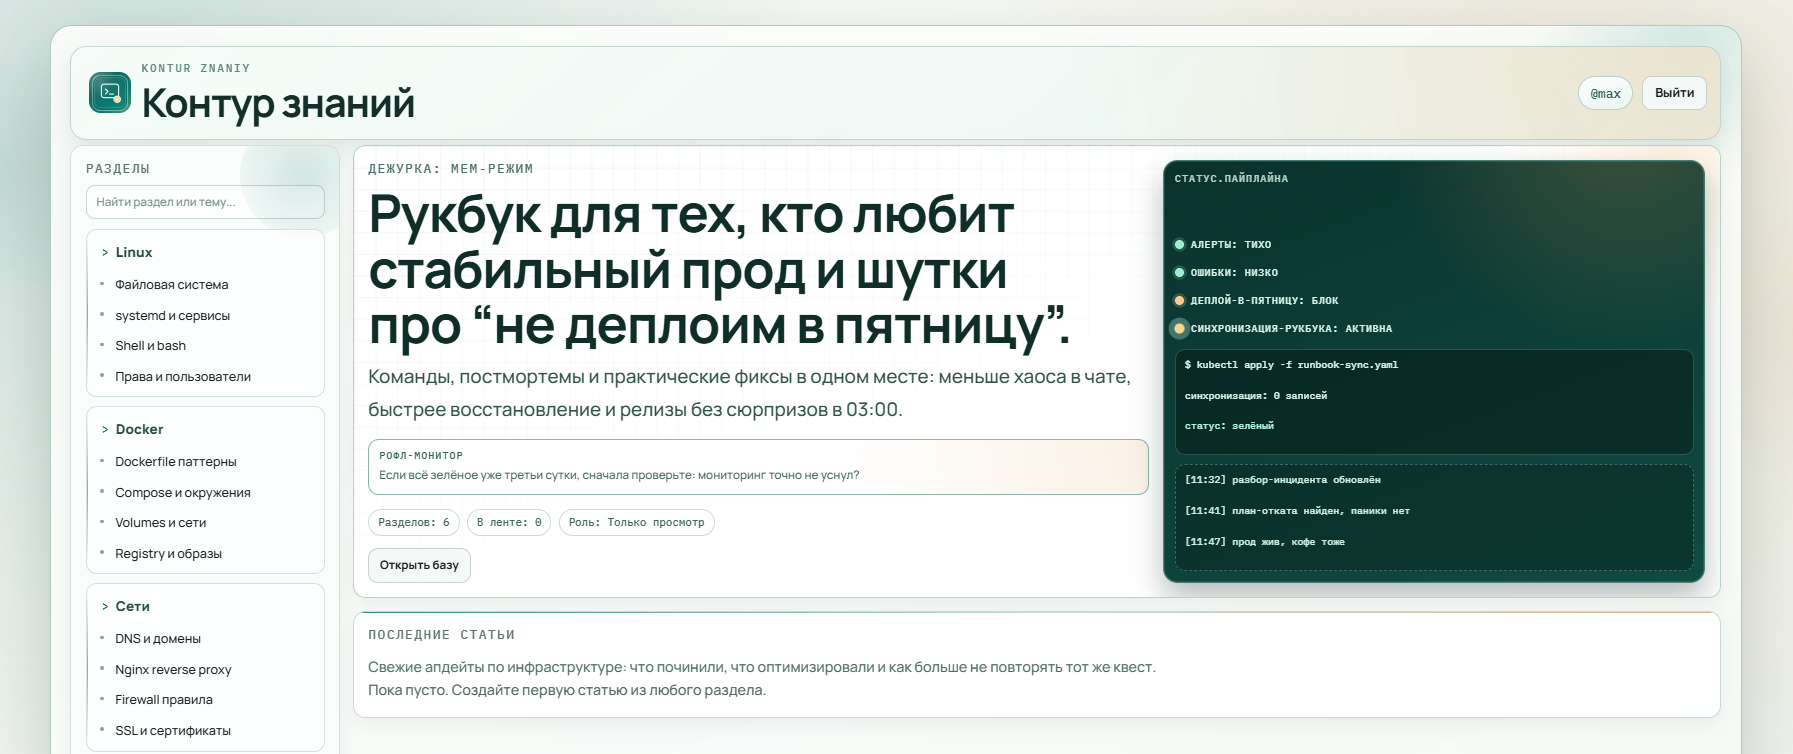
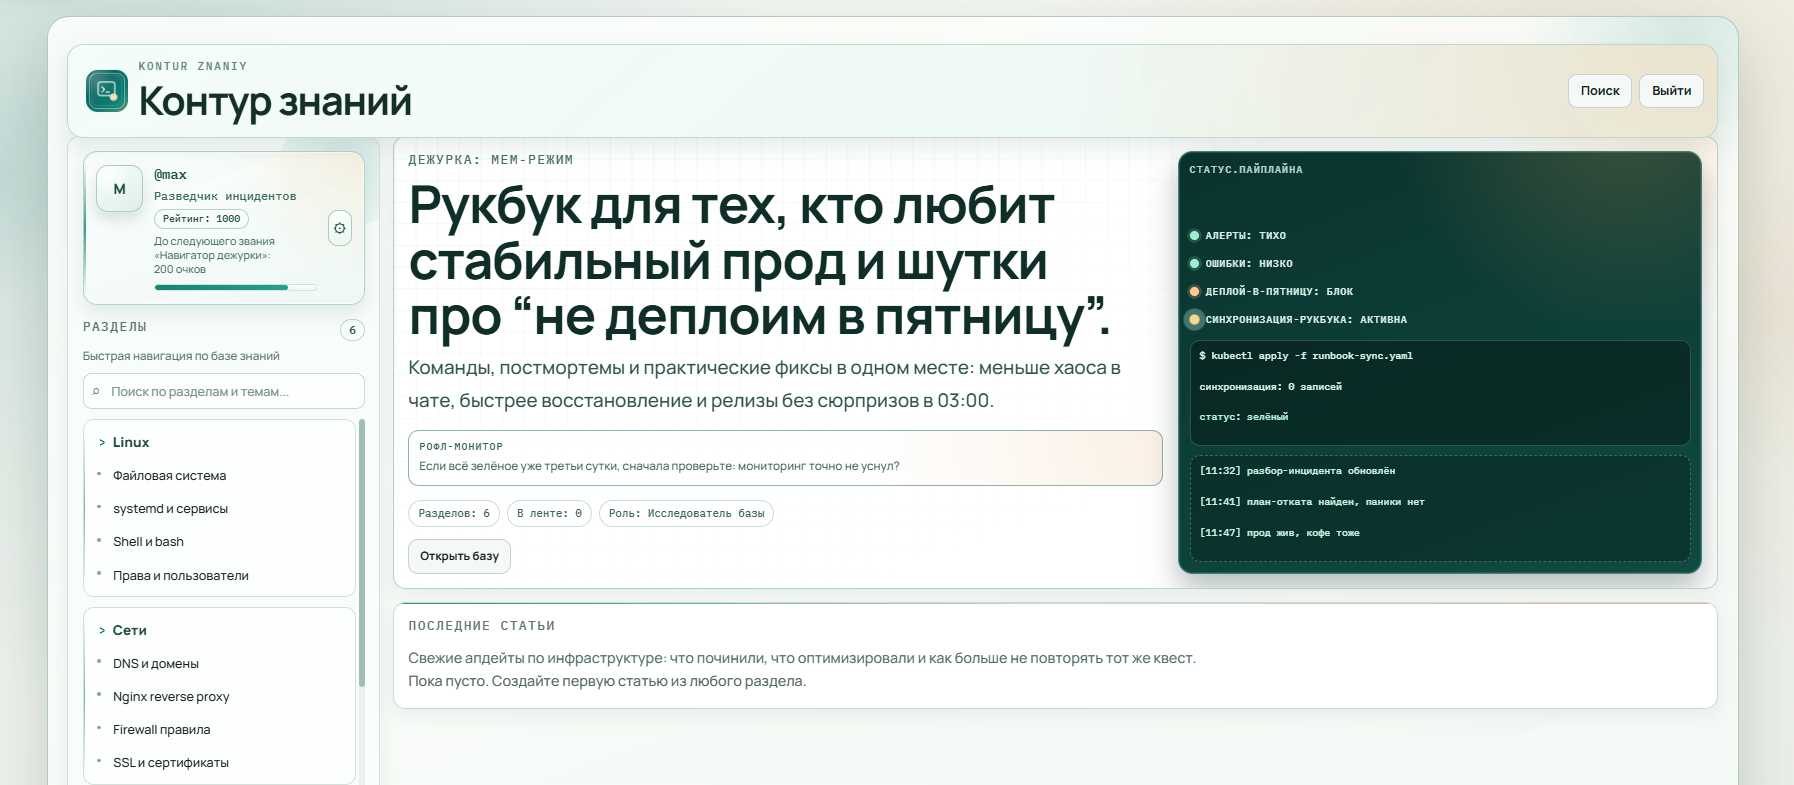
docs(readme): update features, rating config, and admin audit pagination details

diff --git a/README.md b/README.md
@@ -8,7 +8,7 @@
   <img src="docs/images/hero.png" alt="Kontur Znaniy hero" width="100%" />
 </p>
 
-Self-hosted DevOps wiki для внутренней команды: структурированные разделы, статьи в Markdown, ролевой доступ, модерация регистрации и админ-панель.
+Self-hosted DevOps wiki для внутренней команды: структурированные разделы, статьи в Markdown, ролевой доступ, модерация регистрации, рейтинг активности и админ-панель.
 
 ## Возможности
 
@@ -25,12 +25,18 @@ Self-hosted DevOps wiki для внутренней команды: структ
   - автосохранение черновиков для создания/редактирования
   - загрузка изображений (S3-совместимое хранилище)
   - комментарии с проверкой прав на удаление
+  - лайки статей (с защитой от лайка собственной статьи)
+- Рейтинг и ранги:
+  - XP за создание статьи и за лайк статьи
+  - ранги пользователя с прогрессом до следующего звания
+  - настраиваемые XP и пороги рангов через `.env`
 - Админ-панель (`/app/admin/users`):
   - одобрение/отклонение заявок на регистрацию
   - смена ролей пользователей
+  - изменение рейтинга пользователей
   - блокировка/разблокировка пользователей
   - удаление пользователей
-  - журнал действий администратора
+  - журнал действий администратора с пагинацией (7 записей на страницу)
 - Безопасность:
   - CSRF-защита для изменяющих действий
   - rate limiting для login/register
@@ -47,7 +53,7 @@ Self-hosted DevOps wiki для внутренней команды: структ
 
 ## Требования
 
-- Go 1.22+ (или совместимый современный Go toolchain)
+- Go 1.23+ (или совместимый современный Go toolchain)
 - PostgreSQL 14+
 - SMTP-аккаунт
 - Telegram bot token и admin chat ID
@@ -84,16 +90,6 @@ go run ./cmd/server
 
 `http://localhost:8080`
 
-## Основные маршруты
-
-- `/auth/login`
-- `/auth/register`
-- `/auth/verify-email?token=...`
-- `/app`
-- `/app/section?slug=linux`
-- `/app/article?id=<id>`
-- `/app/article/new?section=linux`
-- `/app/admin/users`
 
 ## Как назначить первого администратора
 
@@ -121,34 +117,3 @@ go test ./...
 <p align="center">
   <img src="docs/images/dashboard.png" alt="Dashboard preview" width="100%" />
 </p>
-
-## Первый релиз (v1.0.0)
-
-Репозиторий готов к первой публичной релизной версии.
-
-1. Закоммитьте текущие изменения:
-
-```bash
-git add -A
-git commit -m "release: v1.0.0"
-```
-
-2. Создайте тег:
-
-```bash
-git tag -a v1.0.0 -m "First stable release"
-```
-
-3. Запушьте ветку и тег:
-
-```bash
-git push origin main
-git push origin v1.0.0
-```
-
-4. Опубликуйте GitHub Release:
-
-- откройте `https://github.com/soul4bit/kontur-znaniy/releases/new`
-- выберите тег `v1.0.0`
-- используйте заметки из `CHANGELOG.md`
-- опубликуйте релиз
